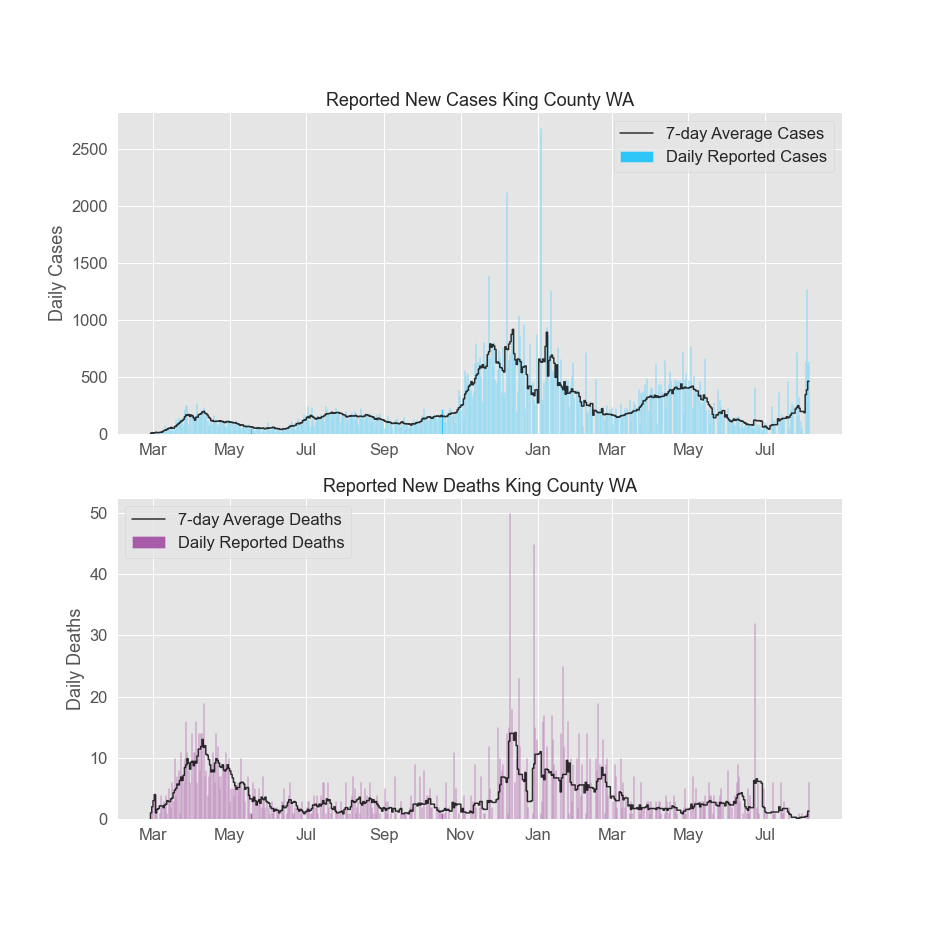
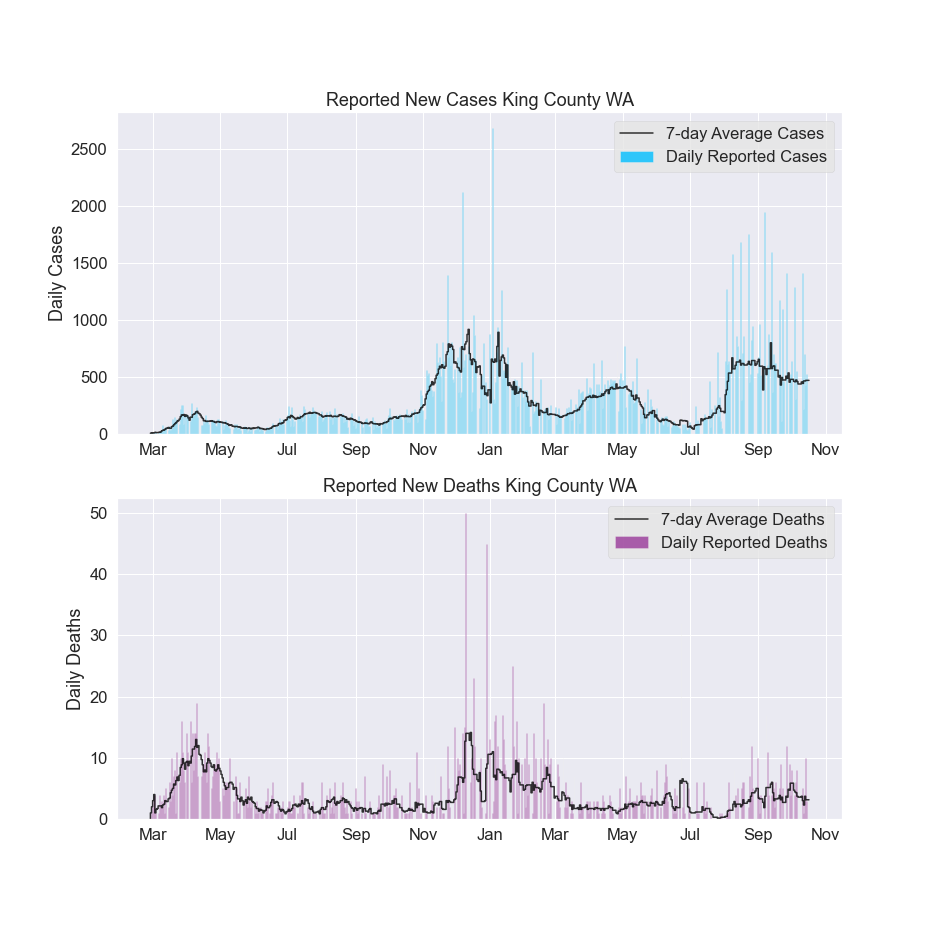
fix environment

diff --git a/src/make_fig_county.py b/src/make_fig_county.py
@@ -25,40 +25,6 @@ df = pd.read_csv(url,
                  index_col=['state','county','date'], 
                  parse_dates=True).sort_index()
 
-############################################################################################
-# Cumulative King County
-############################################################################################
-daily_king = dailyChanges(df.loc[('Washington','King')], ['cases','deaths']).abs()
-
-fig, ax = plt.subplots(figsize=(13,7))
-
-plt.style.use('ggplot')
-
-ax.bar(daily_king.index,
-       daily_king.cases,
-       color='thistle',
-       label='Cumulative Cases',
-       width=1)
-
-ax.bar(daily_king.index,
-       daily_king.deaths,
-       color='purple',
-       label='Cumulative Deaths',
-       width=1,
-       alpha=0.8)
-
-ax.set_title('Cumulative Reported Cases and Deaths (King County WA)', fontsize=18)
-
-# Annotate with the total number of cases and deaths.
-ax.annotate('Total Cases:  {:,}'.format(daily_king.cases.values[-1]), (10,302), fontsize=17, xycoords='axes pixels')
-ax.annotate('Total Deaths:      {:,}'.format(daily_king.deaths.values[-1]), (10,282), fontsize=17, xycoords='axes pixels')
-
-date_form = DateFormatter("%b")
-ax.xaxis.set_major_formatter(date_form)
-
-plt.legend()
-plt.savefig('../figures/Cumulative_King_County')
-plt.show()
 
 ############################################################################################
 # Daily Changes King County
@@ -108,9 +74,9 @@ ax[0].xaxis.set_major_formatter(date_form)
 ax[1].xaxis.set_major_formatter(date_form)
 
 # Show the legend and plots
-ax[0].legend()
-ax[1].legend(loc='upper center')
+ax[0].legend(loc='upper right')
+ax[1].legend(loc='upper right')
 
 if __name__ == '__main__':
-    #plt.savefig('../figures/Daily_King_County')
+    plt.savefig('../figures/Daily_King_County')
     plt.show()
